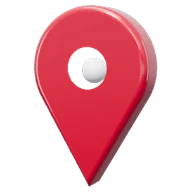
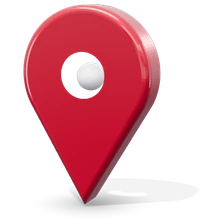
Symbole noch realistischer: Materialstruktur, echter Kontaktschatten, mehr Details
Claude-Session: https://claude.ai/code/session_01AC3hVdMMJayFA5k58UgPiU

diff --git a/velocenter-homepage/index.html b/velocenter-homepage/index.html
@@ -3053,8 +3053,8 @@ html.er body .srow:hover .ic svg{filter:brightness(0) invert(1) drop-shadow(0 1p
 /* Symbole realistisch (Tiry 23.11.2026: „mehr Realistik“): echte 3D-Renderings (Lack, Chrom, Gummi), frei stehend mit weichem Bodenschatten, Hover hebt an */
 html.er body .srow .ic.i3{background:none!important;box-shadow:none!important;width:76px!important;height:76px!important;overflow:visible}
 html.er body .srow .ic.i3::before{content:none!important}
-html.er body .srow .ic.i3::after{content:""!important;position:absolute;left:14%;right:14%;bottom:4px;top:auto;height:10px;border-radius:50%;z-index:-1;background:radial-gradient(closest-side,rgba(40,14,20,.32),transparent)!important;transition:transform .45s cubic-bezier(.22,1.3,.36,1),opacity .45s ease}
-html.er body .srow .ic.i3 img{display:block;width:76px;height:76px;filter:drop-shadow(0 3px 4px rgba(40,10,18,.18));transition:transform .45s cubic-bezier(.22,1.3,.36,1)}
+html.er body .srow .ic.i3::after{content:none!important;position:absolute;left:14%;right:14%;bottom:4px;top:auto;height:10px;border-radius:50%;z-index:-1;background:radial-gradient(closest-side,rgba(40,14,20,.32),transparent)!important;transition:transform .45s cubic-bezier(.22,1.3,.36,1),opacity .45s ease}
+html.er body .srow .ic.i3 img{display:block;width:76px;height:76px;transition:transform .45s cubic-bezier(.22,1.3,.36,1)}
 html.er body .srow:hover .ic.i3{transform:none!important;background:none!important;box-shadow:none!important}
 html.er body .srow:hover .ic.i3 img{transform:translateY(-5px) rotate(-6deg) scale(1.08)}
 html.er body .srow:hover .ic.i3::after{transform:scale(.78);opacity:.7}
@@ -3524,11 +3524,11 @@ m696 -454 c28 -13 46 -31 55 -51 22 -53 -50 -177 -173 -300 -187 -186 -647
     <div class="sig"><svg><use href="#i-wrench"/></svg>Stefan Hessert, Inhaber</div>
    </div>
    <div class="rows">
-    <a class="srow pre" href="#beratung" style="--c:#F472B6"><span class="ic i3"><img src="img/ic3d-bike.webp" width="96" height="96" alt="" loading="lazy" decoding="async"></span><span><h3>Beratung & Probefahrt</h3><p>Wir hören zu, zeigen eine passende Auswahl und begleiten dich auf Wunsch bei der Probefahrt.</p></span><span class="go"><svg><use href="#i-arrow"/></svg></span></a>
-    <a class="srow pre" href="#werkstatt" style="--c:#22D3EE"><span class="ic i3"><img src="img/ic3d-wrench.webp" width="96" height="96" alt="" loading="lazy" decoding="async"></span><span><h3>Inspektion & Reparatur</h3><p>Geschultes Bosch Service Center. Fachkundige Inspektionen und Reparaturen, auch nach dem Kauf.</p></span><span class="go"><svg><use href="#i-arrow"/></svg></span></a>
-    <a class="srow pre" href="#finanzierung" style="--c:#E2232D"><span class="ic i3"><img src="img/ic3d-euro.webp" width="96" height="96" alt="" loading="lazy" decoding="async"></span><span><h3>0 % Finanzierung</h3><p>0 % Zinsen über die TARGOBANK (effektiver Jahreszins 0,00 %), bis zu 24 Monate, mit Anzahlung. Zum regulären Preis, nicht auf Aktionspreise. Bonität vorausgesetzt.</p></span><span class="go"><svg><use href="#i-arrow"/></svg></span></a>
-    <a class="srow pre" href="#versicherung" style="--c:#34D399"><span class="ic i3"><img src="img/ic3d-shield.webp" width="96" height="96" alt="" loading="lazy" decoding="async"></span><span><h3>ENRA Versicherung</h3><p>Schutz gegen Diebstahl, dazu Vollkasko mit Verschleiß und Pick-up-Service.</p></span><span class="go"><svg><use href="#i-arrow"/></svg></span></a>
-    <a class="srow pre" href="#leasing" style="--c:#60A5FA"><span class="ic i3"><img src="img/ic3d-case.webp" width="96" height="96" alt="" loading="lazy" decoding="async"></span><span><h3>Dienstrad-Leasing</h3><p>Wir arbeiten mit fast allen Leasing-Firmen zusammen, z. B. JobRad, Bikeleasing, Company Bike.</p></span><span class="go"><svg><use href="#i-arrow"/></svg></span></a>
+    <a class="srow pre" href="#beratung" style="--c:#F472B6"><span class="ic i3"><img src="img/ic3d-bike.webp" width="112" height="112" alt="" loading="lazy" decoding="async"></span><span><h3>Beratung & Probefahrt</h3><p>Wir hören zu, zeigen eine passende Auswahl und begleiten dich auf Wunsch bei der Probefahrt.</p></span><span class="go"><svg><use href="#i-arrow"/></svg></span></a>
+    <a class="srow pre" href="#werkstatt" style="--c:#22D3EE"><span class="ic i3"><img src="img/ic3d-wrench.webp" width="112" height="112" alt="" loading="lazy" decoding="async"></span><span><h3>Inspektion & Reparatur</h3><p>Geschultes Bosch Service Center. Fachkundige Inspektionen und Reparaturen, auch nach dem Kauf.</p></span><span class="go"><svg><use href="#i-arrow"/></svg></span></a>
+    <a class="srow pre" href="#finanzierung" style="--c:#E2232D"><span class="ic i3"><img src="img/ic3d-euro.webp" width="112" height="112" alt="" loading="lazy" decoding="async"></span><span><h3>0 % Finanzierung</h3><p>0 % Zinsen über die TARGOBANK (effektiver Jahreszins 0,00 %), bis zu 24 Monate, mit Anzahlung. Zum regulären Preis, nicht auf Aktionspreise. Bonität vorausgesetzt.</p></span><span class="go"><svg><use href="#i-arrow"/></svg></span></a>
+    <a class="srow pre" href="#versicherung" style="--c:#34D399"><span class="ic i3"><img src="img/ic3d-shield.webp" width="112" height="112" alt="" loading="lazy" decoding="async"></span><span><h3>ENRA Versicherung</h3><p>Schutz gegen Diebstahl, dazu Vollkasko mit Verschleiß und Pick-up-Service.</p></span><span class="go"><svg><use href="#i-arrow"/></svg></span></a>
+    <a class="srow pre" href="#leasing" style="--c:#60A5FA"><span class="ic i3"><img src="img/ic3d-case.webp" width="112" height="112" alt="" loading="lazy" decoding="async"></span><span><h3>Dienstrad-Leasing</h3><p>Wir arbeiten mit fast allen Leasing-Firmen zusammen, z. B. JobRad, Bikeleasing, Company Bike.</p></span><span class="go"><svg><use href="#i-arrow"/></svg></span></a>
    </div>
   </div>
  </div>
@@ -3861,13 +3861,13 @@ m696 -454 c28 -13 46 -31 55 -51 22 -53 -50 -177 -173 -300 -187 -186 -647
    <div class="pre"><p class="eyebrow">Offizieller <b>i:SY Experte</b></p><h2 class="big" style="margin-top:14px">Warum zu uns<br><span class="org">für dein i:SY?</span></h2>
    <p class="lead" style="margin-top:18px;max-width:780px">Das zeichnet uns als i:SY Experte aus.</p></div>
    <div class="rows" style="margin-top:22px">
-    <div class="srow pre" style="--c:#EA580C"><span class="ic i3"><img src="img/ic3d-box.webp" width="96" height="96" alt="" loading="lazy" decoding="async"></span><span><h3>Große Modellauswahl</h3><p>Über 100 i:SY in vielen Modellen und Farben stehen bei uns, zum Anschauen, Vergleichen und gleich Mitnehmen.</p></span></div>
-    <div class="srow pre" style="--c:#F472B6"><span class="ic i3"><img src="img/ic3d-bike.webp" width="96" height="96" alt="" loading="lazy" decoding="async"></span><span><h3>Probefahrt mit Testrädern</h3><p>Fahr Probe vor dem Laden oder nimm ein i:SY übers Wochenende mit nach Hause. Sechs Testräder stehen dafür bereit, <a class="tflk" href="#tflot">Testflotte ansehen</a>.</p></span></div>
-    <div class="srow pre" style="--c:#60A5FA"><span class="ic i3"><img src="img/ic3d-chat.webp" width="96" height="96" alt="" loading="lazy" decoding="async"></span><span><h3>Beratung zu Modellen und Zubehör</h3><p>Welche Schaltung, welcher Akku, welcher Korb oder Kindersitz? Wir zeigen es dir direkt am Rad.</p></span></div>
-    <div class="srow pre" style="--c:#22D3EE"><span class="ic i3"><img src="img/ic3d-wrench.webp" width="96" height="96" alt="" loading="lazy" decoding="async"></span><span><h3>Wartung nach i:SY-Standard</h3><p>Geschultes Team, eigene Werkstatt und Bosch Service Center. Inspektion und Reparatur machen wir selbst.</p></span></div>
-    <div class="srow pre" style="--c:#FBBF24"><span class="ic i3"><img src="img/ic3d-box.webp" width="96" height="96" alt="" loading="lazy" decoding="async"></span><span><h3>Ersatzteile fast alle auf Lager</h3><p>Für i:SY haben wir fast alle Ersatzteile vorrätig. Das heißt: kein langes Warten, dein Rad ist schnell wieder unterwegs.</p></span></div>
-    <div class="srow pre" style="--c:#34D399"><span class="ic i3"><img src="img/ic3d-map.webp" width="96" height="96" alt="" loading="lazy" decoding="async"></span><span><h3>Kunden aus ganz Deutschland</h3><p>Für ihr i:SY kommen Kunden sogar aus Berlin und Hamburg zu uns nach Wörth und holen es hier ab.</p></span></div>
-    <div class="srow pre" style="--c:#E2232D"><span class="ic i3"><img src="img/ic3d-star.webp" width="96" height="96" alt="" loading="lazy" decoding="async"></span><span><h3>Seit 2015 dabei</h3><p>Wir haben i:SY auf einer Messe entdeckt und sind seitdem mit voller Überzeugung dabei. Die regionale Presse zählte uns 2022 zu den i:SY-Premium-Händlern in Deutschland und den Benelux-Staaten.</p></span></div>
+    <div class="srow pre" style="--c:#EA580C"><span class="ic i3"><img src="img/ic3d-box.webp" width="112" height="112" alt="" loading="lazy" decoding="async"></span><span><h3>Große Modellauswahl</h3><p>Über 100 i:SY in vielen Modellen und Farben stehen bei uns, zum Anschauen, Vergleichen und gleich Mitnehmen.</p></span></div>
+    <div class="srow pre" style="--c:#F472B6"><span class="ic i3"><img src="img/ic3d-bike.webp" width="112" height="112" alt="" loading="lazy" decoding="async"></span><span><h3>Probefahrt mit Testrädern</h3><p>Fahr Probe vor dem Laden oder nimm ein i:SY übers Wochenende mit nach Hause. Sechs Testräder stehen dafür bereit, <a class="tflk" href="#tflot">Testflotte ansehen</a>.</p></span></div>
+    <div class="srow pre" style="--c:#60A5FA"><span class="ic i3"><img src="img/ic3d-chat.webp" width="112" height="112" alt="" loading="lazy" decoding="async"></span><span><h3>Beratung zu Modellen und Zubehör</h3><p>Welche Schaltung, welcher Akku, welcher Korb oder Kindersitz? Wir zeigen es dir direkt am Rad.</p></span></div>
+    <div class="srow pre" style="--c:#22D3EE"><span class="ic i3"><img src="img/ic3d-wrench.webp" width="112" height="112" alt="" loading="lazy" decoding="async"></span><span><h3>Wartung nach i:SY-Standard</h3><p>Geschultes Team, eigene Werkstatt und Bosch Service Center. Inspektion und Reparatur machen wir selbst.</p></span></div>
+    <div class="srow pre" style="--c:#FBBF24"><span class="ic i3"><img src="img/ic3d-box.webp" width="112" height="112" alt="" loading="lazy" decoding="async"></span><span><h3>Ersatzteile fast alle auf Lager</h3><p>Für i:SY haben wir fast alle Ersatzteile vorrätig. Das heißt: kein langes Warten, dein Rad ist schnell wieder unterwegs.</p></span></div>
+    <div class="srow pre" style="--c:#34D399"><span class="ic i3"><img src="img/ic3d-map.webp" width="112" height="112" alt="" loading="lazy" decoding="async"></span><span><h3>Kunden aus ganz Deutschland</h3><p>Für ihr i:SY kommen Kunden sogar aus Berlin und Hamburg zu uns nach Wörth und holen es hier ab.</p></span></div>
+    <div class="srow pre" style="--c:#E2232D"><span class="ic i3"><img src="img/ic3d-star.webp" width="112" height="112" alt="" loading="lazy" decoding="async"></span><span><h3>Seit 2015 dabei</h3><p>Wir haben i:SY auf einer Messe entdeckt und sind seitdem mit voller Überzeugung dabei. Die regionale Presse zählte uns 2022 zu den i:SY-Premium-Händlern in Deutschland und den Benelux-Staaten.</p></span></div>
    </div>
    <div class="isyq pre">
     <blockquote><p>„die i:SY Experten von Velocenter Hessert“</p><cite>i:SY auf <a href="https://www.isy.de/de-de/News-Blog/News-iSY-Treffen-24" target="_blank" rel="noopener">isy.de</a></cite></blockquote>
@@ -3965,9 +3965,9 @@ m696 -454 c28 -13 46 -31 55 -51 22 -53 -50 -177 -173 -300 -187 -186 -647
  </div>
  <div class="sec zone z-mint">
   <div class="wrap rows">
-   <div class="srow pre" style="--c:#22D3EE"><span class="ic i3"><img src="img/ic3d-shield.webp" width="96" height="96" alt="" loading="lazy" decoding="async"></span><span><h3>Standsicher</h3><p>Drei Räder kippen beim Anhalten nicht. Das gibt vielen Menschen ihr Rad und ihre Freiheit zurück.</p></span></div>
-   <div class="srow pre" style="--c:#F472B6"><span class="ic i3"><img src="img/ic3d-bike.webp" width="96" height="96" alt="" loading="lazy" decoding="async"></span><span><h3>Probefahrt vor Ort</h3><p>Ein Dreirad fährt sich anders als ein Zweirad. Komm vorbei und teste in Ruhe, wir erklären alles.</p></span></div>
-   <div class="srow pre" style="--c:#FB923C"><span class="ic i3"><img src="img/ic3d-wrench.webp" width="96" height="96" alt="" loading="lazy" decoding="async"></span><span><h3>Service inklusive</h3><p>Inspektion und Reparatur für E-Dreiräder machen wir in unserer eigenen Werkstatt.</p></span></div>
+   <div class="srow pre" style="--c:#22D3EE"><span class="ic i3"><img src="img/ic3d-shield.webp" width="112" height="112" alt="" loading="lazy" decoding="async"></span><span><h3>Standsicher</h3><p>Drei Räder kippen beim Anhalten nicht. Das gibt vielen Menschen ihr Rad und ihre Freiheit zurück.</p></span></div>
+   <div class="srow pre" style="--c:#F472B6"><span class="ic i3"><img src="img/ic3d-bike.webp" width="112" height="112" alt="" loading="lazy" decoding="async"></span><span><h3>Probefahrt vor Ort</h3><p>Ein Dreirad fährt sich anders als ein Zweirad. Komm vorbei und teste in Ruhe, wir erklären alles.</p></span></div>
+   <div class="srow pre" style="--c:#FB923C"><span class="ic i3"><img src="img/ic3d-wrench.webp" width="112" height="112" alt="" loading="lazy" decoding="async"></span><span><h3>Service inklusive</h3><p>Inspektion und Reparatur für E-Dreiräder machen wir in unserer eigenen Werkstatt.</p></span></div>
   </div>
  </div>
 

diff --git a/velocenter-homepage/ENTSCHEIDUNGEN.md b/velocenter-homepage/ENTSCHEIDUNGEN.md
@@ -601,3 +601,4 @@
 
 ### Symbole realistisch (Tiry 23.11.2026: „mehr Realistik“)
 - `.srow .ic` zeigt echte 3D-Renderings statt Linien-Symbolen: `img/ic3d-<name>.webp` (bike, wrench, euro, shield, case, box, map, star, chat; 192 px, zusammen ~45 KB), gerendert mit Three.js (Rotlack mit Klarlack, Chrom, Gummi, Gold, Karton) in Studio-Licht, frei stehend mit weichem Bodenschatten (Klasse `.ic.i3`, 76 px, Handy 62 px). Hover hebt das Objekt leicht an und dreht es. Ersetzt die Glas-Linse von vorher; nicht zurück auf flache Symbole.
+- Stufe 2 (Tiry 23.11.2026 nachts: „1000 % realistischer“): Oberflächen mit Struktur (gebürstetes Chrom, Lederkorn mit Ziernaht + Chrom-Ecken/Schlössern, Kartonfaser, Reifenprofil, Rippen-Griff am Schlüssel, geriffelter Münzrand), echter weicher Kontaktschatten im Bild (kein CSS-Schatten mehr), E-Bike mit Schutzblechen, Kettenblatt, Pedal, Gepäckträger, Lampe; Render 768 px → 224 px. Quelle: Scratchpad-Szene (Three.js r159).
